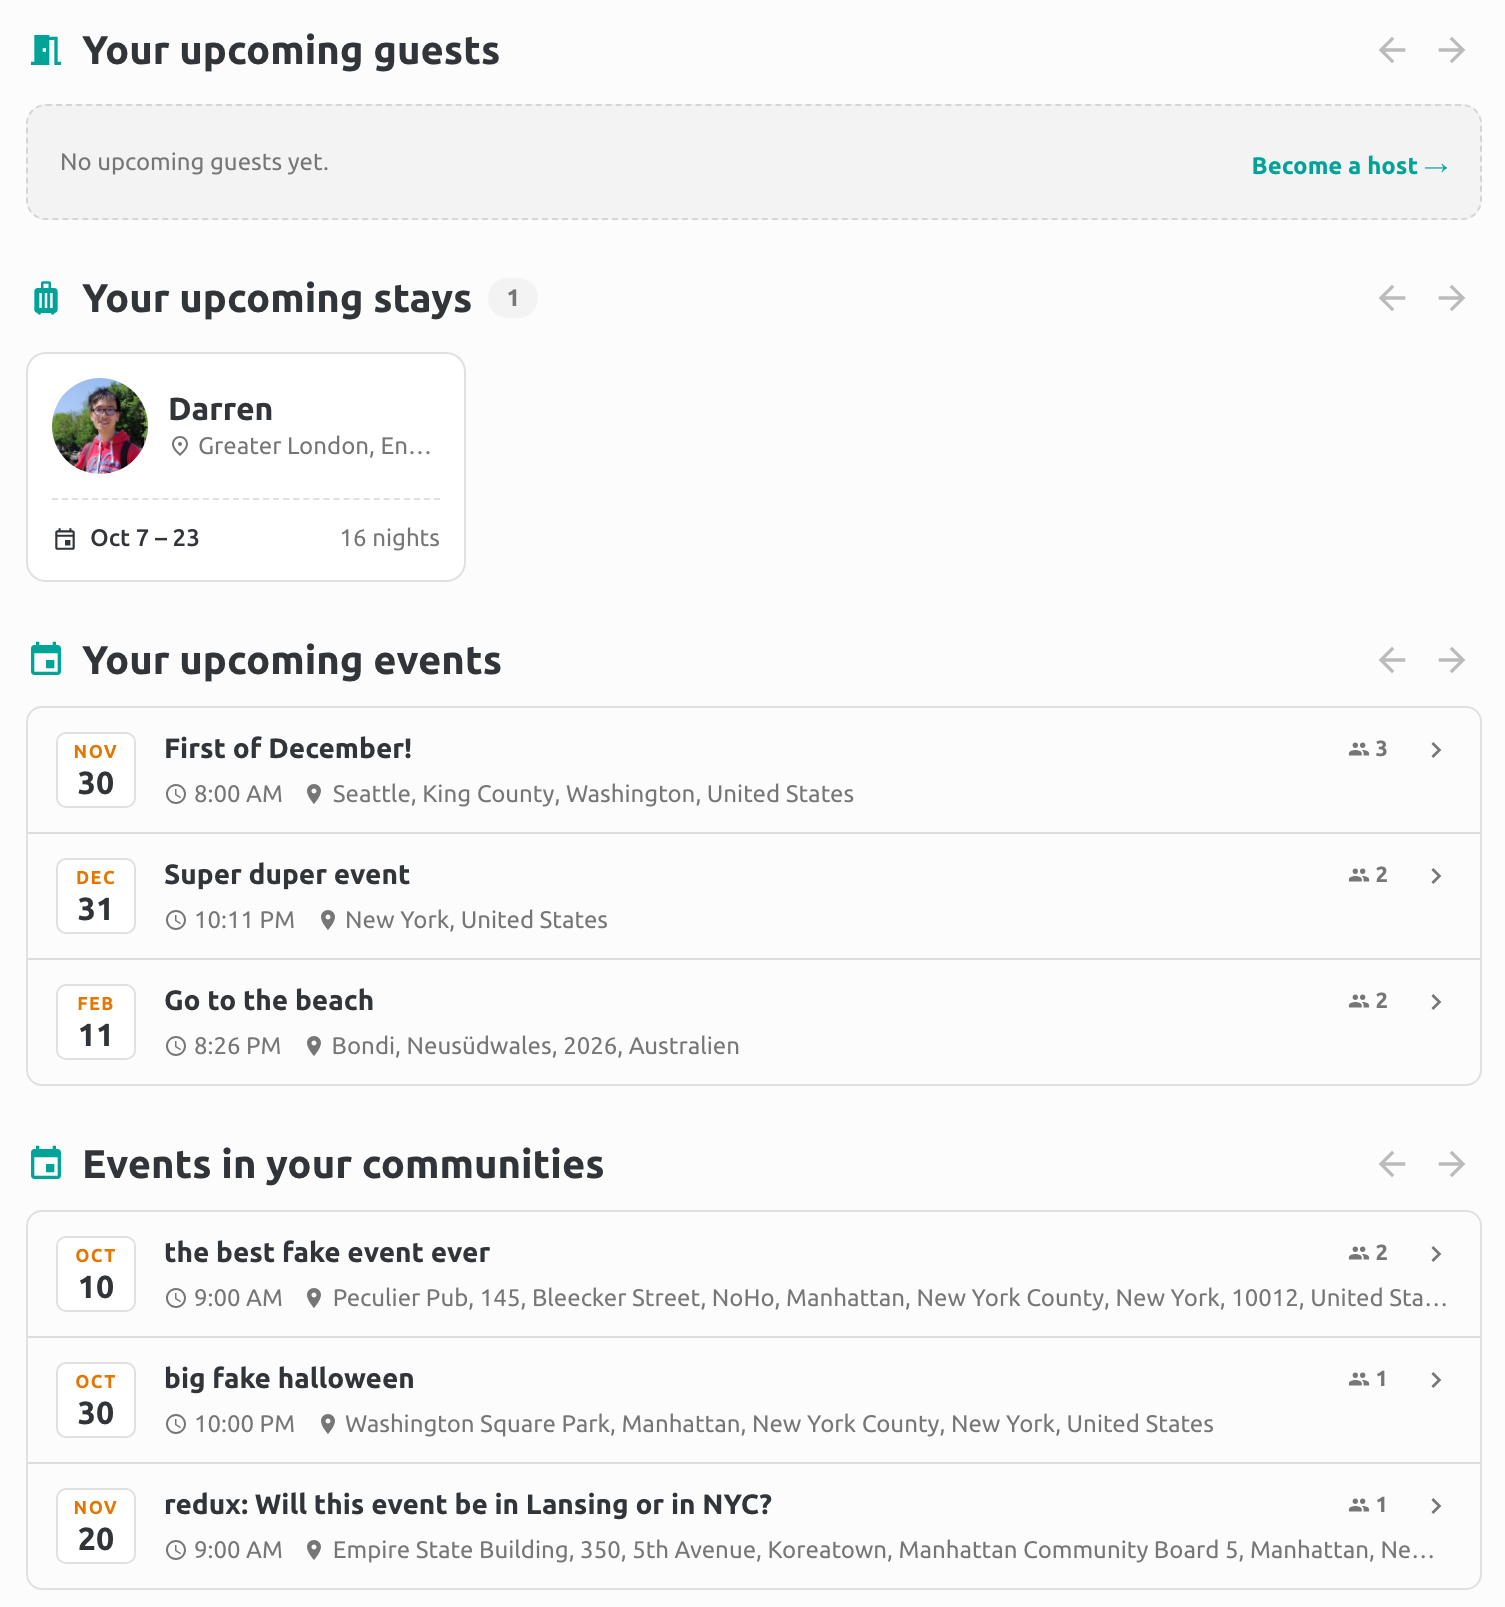
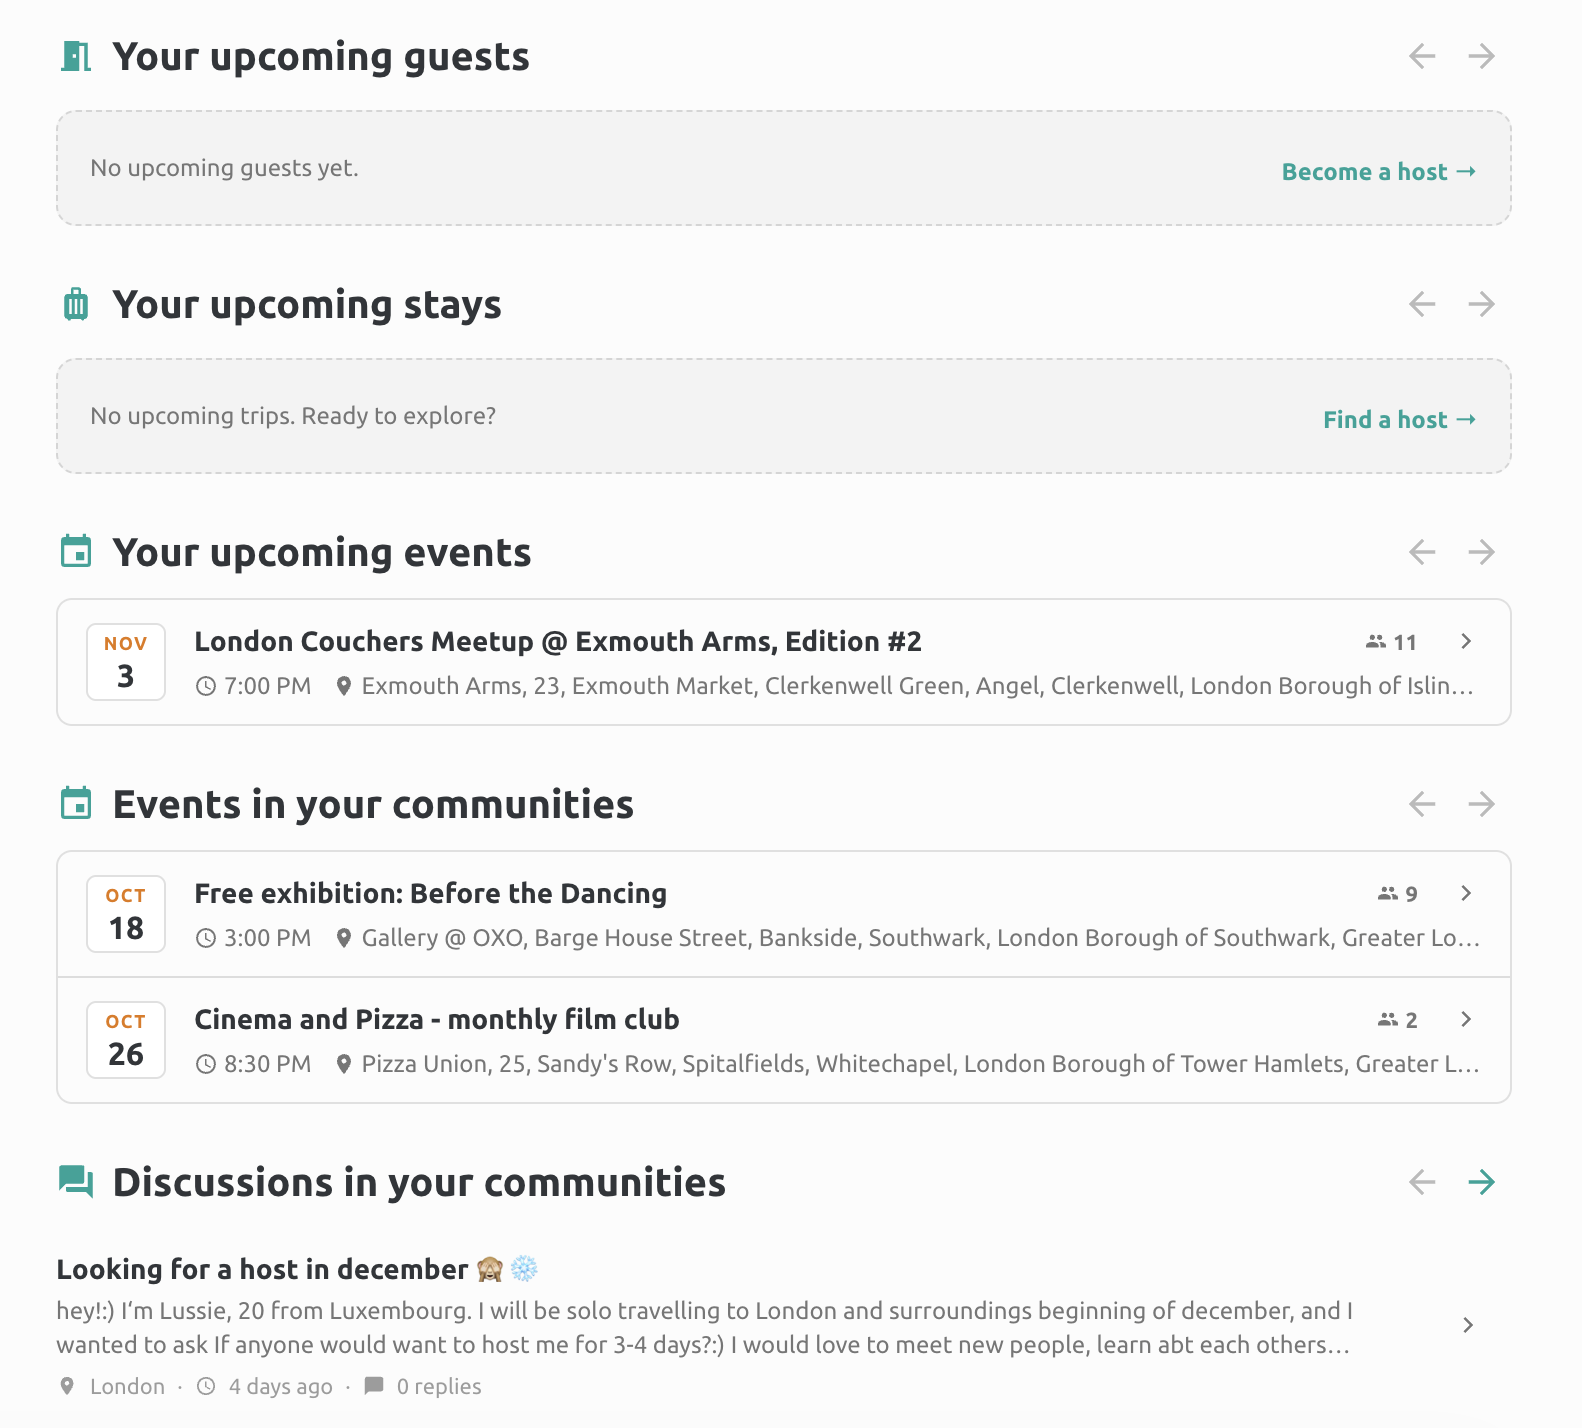
Update dashboard screenshot

diff --git a/app/web/markdown/blog/2026/10/07/version-1.4.0-release.md b/app/web/markdown/blog/2026/10/07/version-1.4.0-release.md
@@ -94,7 +94,7 @@ The dashboard now shows your upcoming stays and guests. Events are split into th
 
 <div style="text-align: center">
 
-![Dashboard with upcoming stays and events](/img/blog/20261007-dashboard.png)
+![Dashboard with upcoming guests, stays, events and community discussions](/img/blog/20261007-dashboard.png)
 
 </div>
 
